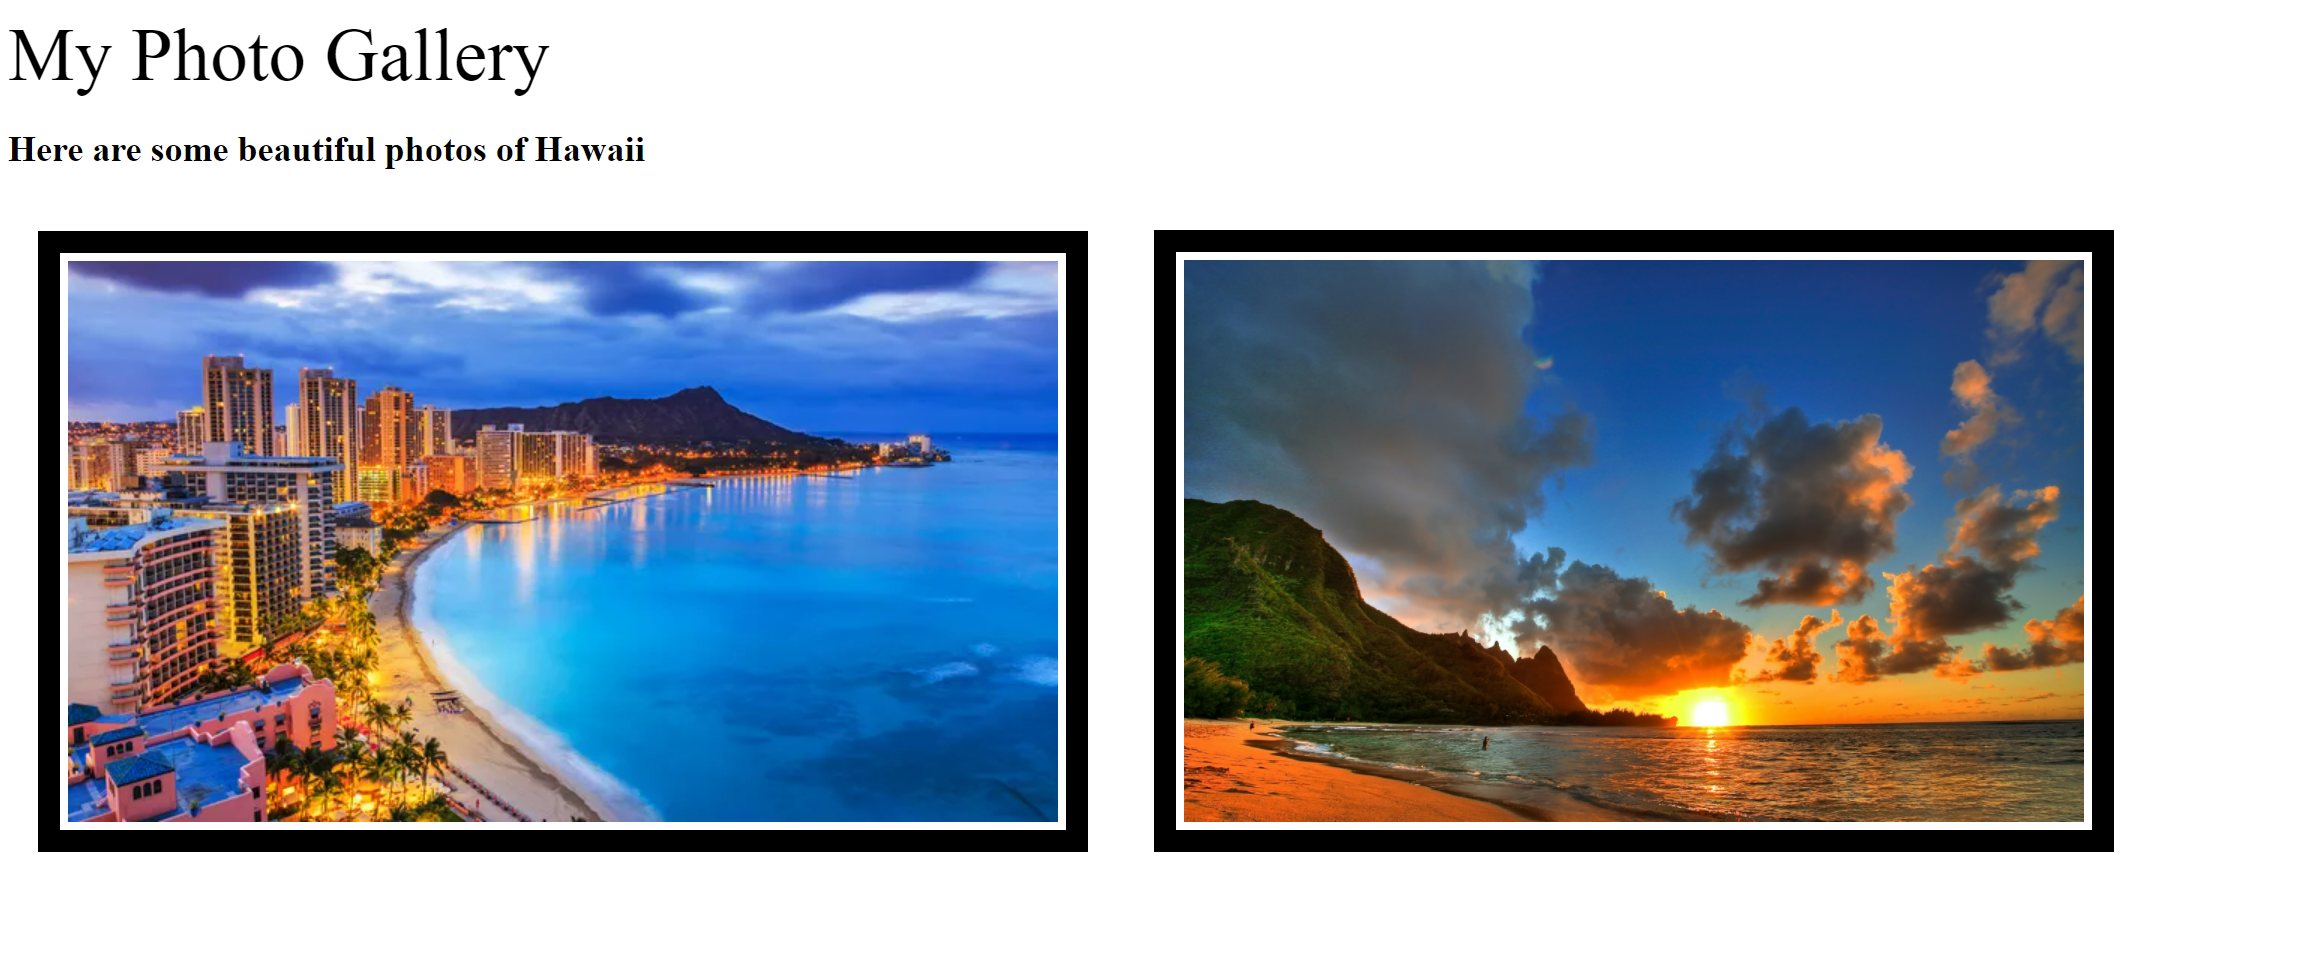
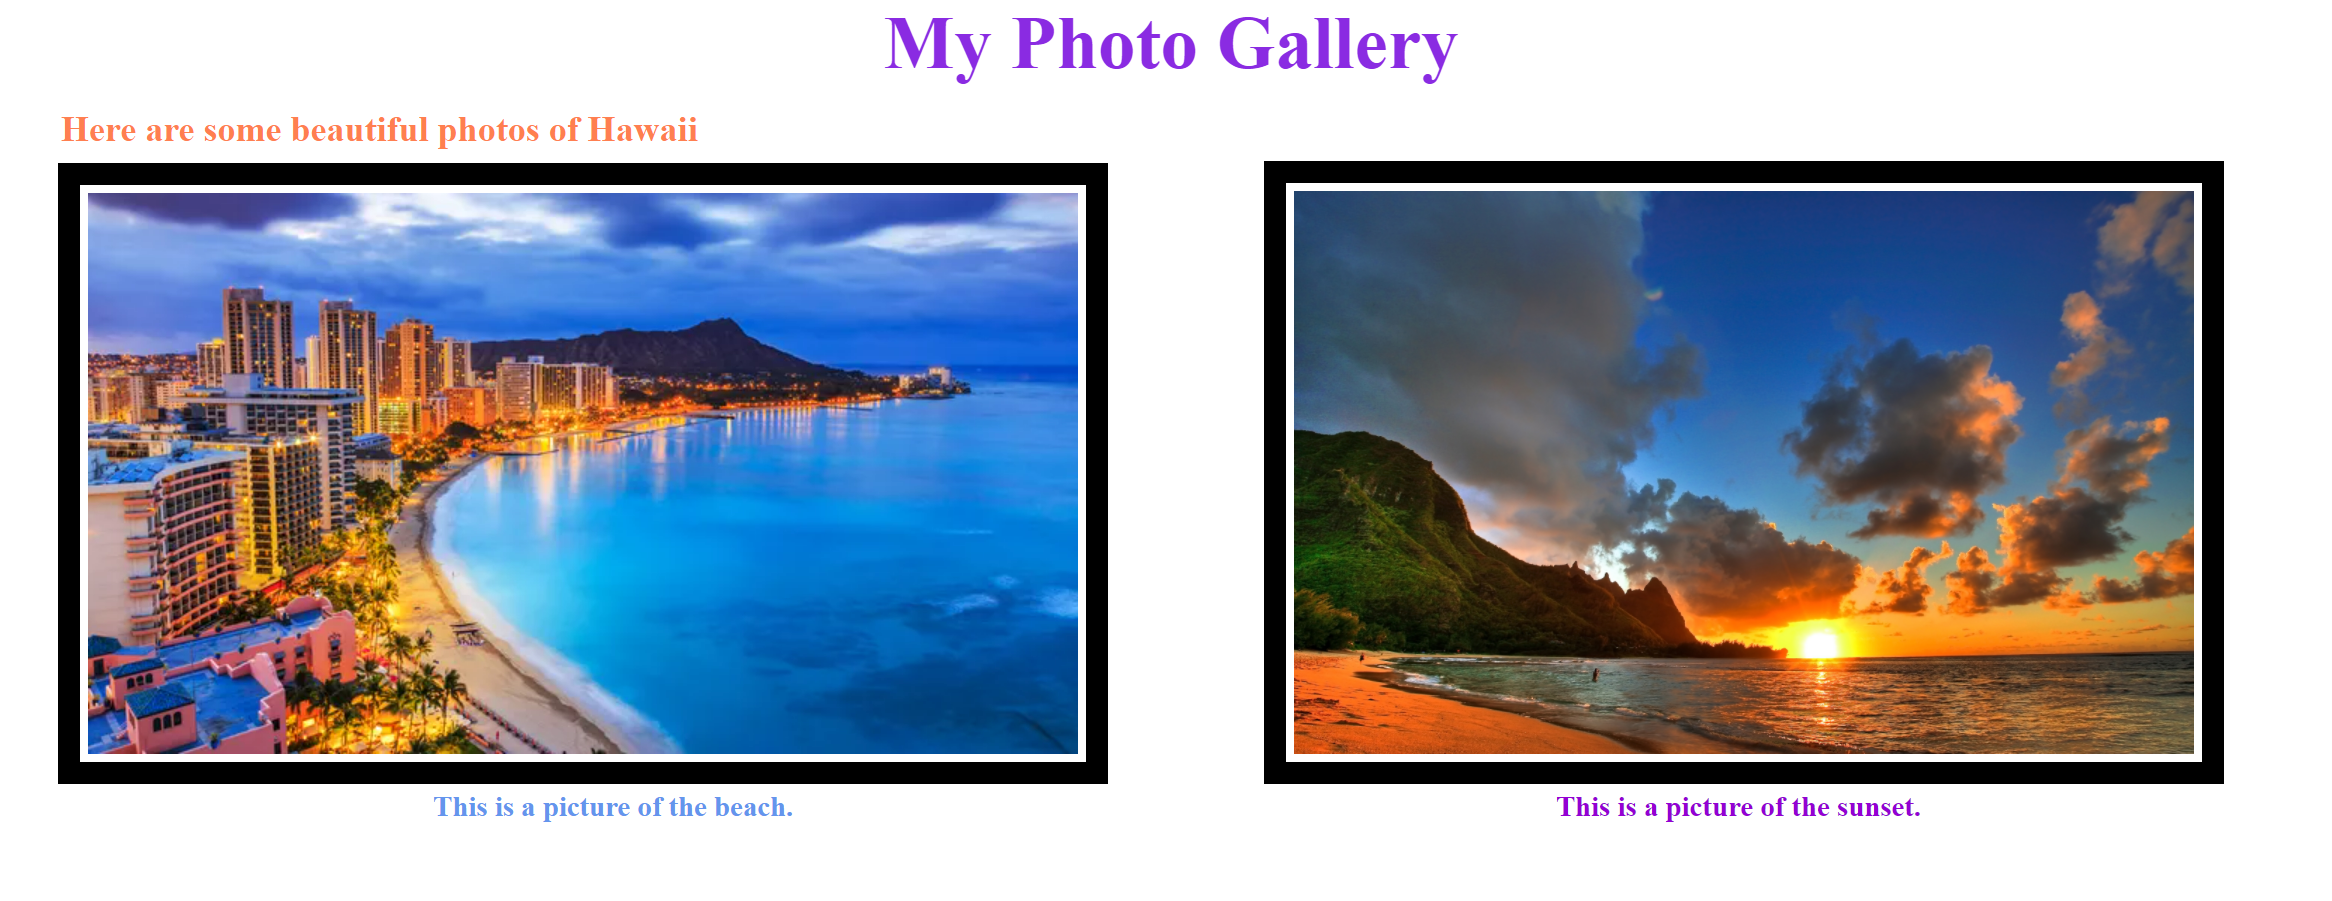
Updated project

diff --git a/index.html b/index.html
@@ -6,11 +6,13 @@
     <link rel="stylesheet" href="style.css">
 </head>
 <body>
-    <header>My Photo Gallery</header>
+    <div id="header">My Photo Gallery</div>
     <h2>Here are some beautiful photos of Hawaii</h2>
     <div>
         <img src="https://www.gannett-cdn.com/-mm-/1abbac059a7e6f21ff3aa7e38760a41a48819119/c=0-217-2118-1414/local/-/media/2018/04/11/USATODAY/USATODAY/636590567652590869-GettyImages-624711274.jpg?width=660&height=374&fit=crop&format=pjpg&auto=webp">
         <img src="https://www.teahub.io/photos/full/187-1877836_nice-hawaii-beach-hawaii-windows-10-backgrounds.jpg" style="width: 37.5em">
     </div>
+    <div id="description1">This is a picture of the beach.</div>
+    <div id="description2">This is a picture of the sunset.</div>
 </body>
 </html>

diff --git a/style.css b/style.css
@@ -1,11 +1,36 @@
-header {
+#header {
     font-size:50px;
+    text-align: center;
+    color: blueviolet;
+    display: block;
+    font-weight: bold;
 }
 h2 {
     font-size: x-large;
+    position: absolute;
+    top: 60px;
+    left: 60px;
+    color: coral;
 }
 img {
     border: 15px solid black;
     padding: 5px;
-    margin: 20px;
+    margin: 50px;
+}
+#description1 {
+    font-size: larger;
+    color: cornflowerblue;
+    position: relative;
+    bottom: 50px;
+    left: 300px;
+    font-weight: bold;
+}
+
+#description2 {
+    font-size: larger;
+    color: darkviolet;
+    position: absolute;
+    bottom: 375px;
+    right: 300px;
+    font-weight: bold;
 }

diff --git a/README.md b/README.md
@@ -20,23 +20,46 @@ Create a link tag for your CSS stylesheet in your html document.
 
 # HTML
 1. Before the body, at top of the CSS stylesheet tag, create a header containing the title of your gallery using a `title` tag.
-2. In the `body` tag, create a header containing your gallery name using `header`tag.
+2. In the `body` tag, create a header containing your gallery name using `div id=`tag. Here we are doing header, so you could do `div id=header`.
 3. Then create a short description of your gallery by using `h2`tag.
 4. Now, you can create one `div`tag.
 5. Inside this `div`, you can add your photos by creating `img src=""`tag. Then make sure you use the correct `src` link to the image.
-6. If the images are too big, you can also size it by add attribute after the link to image. So you will create `style=""`. You can size the width and height.
+6. After you added the photos/pictures, you can add some descriptions to your photos so people understand it better. Create this using `div id=` tag. 
+You can name the id description or something else.
+7. If the images are too big, you can also size it by add attribute after the link to image. So you will create `style=""`. You can size the width and height.
 
 # CSS
 1. In your CSS, you can first size your header
-2. Using `header` selector to modify the font size:
-- Set it to 50px
-3. Using `h2` to modify the description size:
-- Set it to x-large
+2. Using `#header` selector to modify the font-size, text-align, color, display and font-weight:
+- Set font-size to 50px 
+- Set text-align to center (or a different style based on how you like it)
+- Set color to the one you like
+- Set display to block
+- Set font-weight to bold (or another style you like)
+3. Using `h2` to modify the description size, position and color:
+- Set size to x-large
+- Set position to any kind you prefer, try figure out how to place the text on your own
+- Change the color of the text if you want
 4. Using `img` to add border, margin and padding for the photos:
 - Set border to 15px solid black
 - Set padding to 5px
 - Set margin to 20 px
+5. Using `#description`(or the name you give for the `div id=` tag for the description) to modify the position, size and color for it/them:
+- Set the position to the style you prefer
+- You can set change more style for the description words or leave it as default color
+
+# Stretch
+1. Add more pictures and try to use style.css sheet to make pictures with different border style, or general style
+- https://www.w3schools.com/css/css3_border_images.asp
+- https://www.w3schools.com/css/css3_images.asp
+- https://www.w3schools.com/css/css3_borders.asp
+2. Change the style of the text, like for header or description
+- Text-effect: https://www.w3schools.com/css/css3_text_effects.asp
+- Web font: https://www.w3schools.com/css/css3_fonts.asp
+
 
 # Resources
-HTML <img> src Attribute: https://www.w3schools.com/tags/att_img_src.asp<br>
+Adding image: https://www.w3schools.com/tags/att_img_src.asp
+Display: https://www.w3schools.com/css/css_display_visibility.asp
+Position: https://www.w3schools.com/css/css_positioning.asp
 
